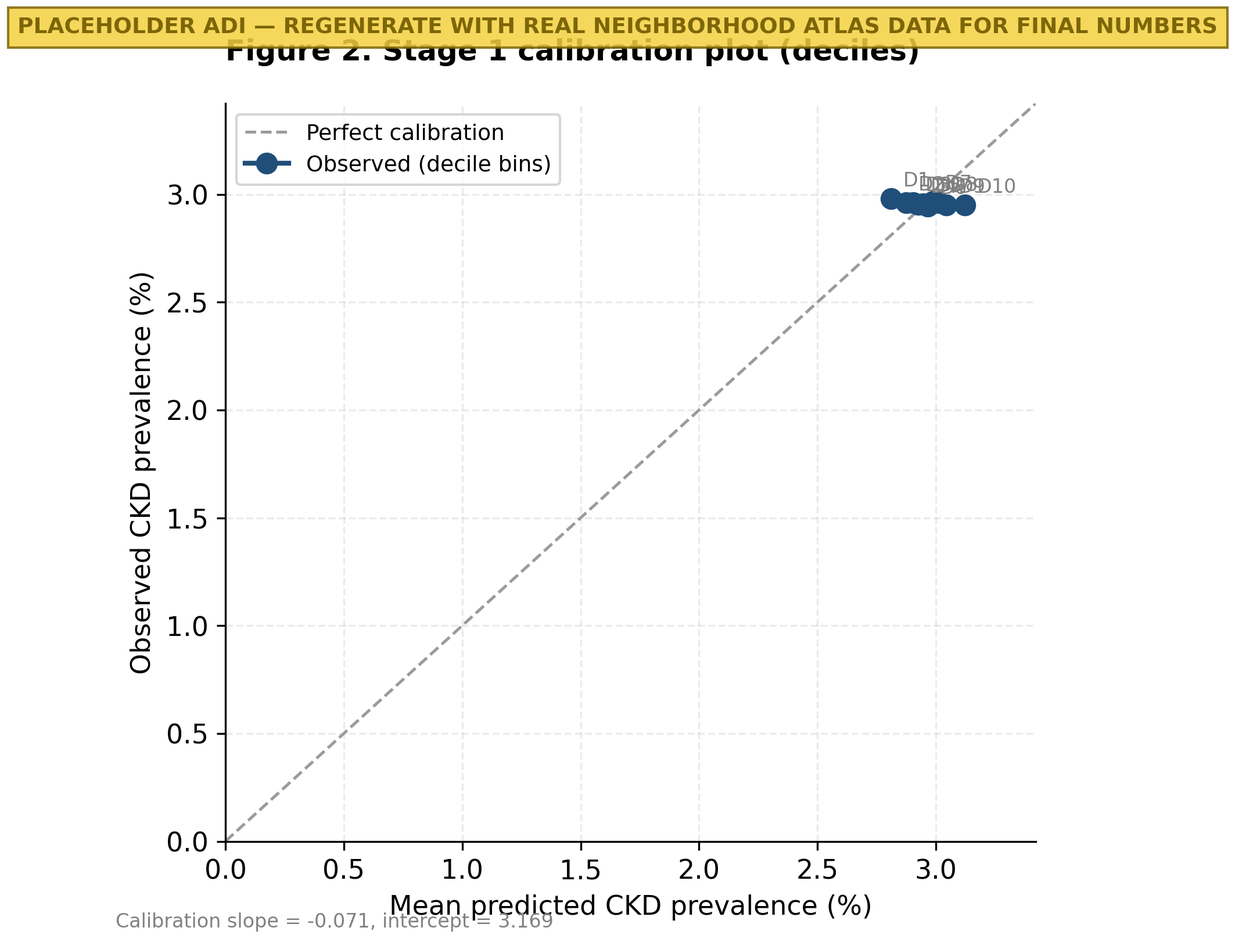
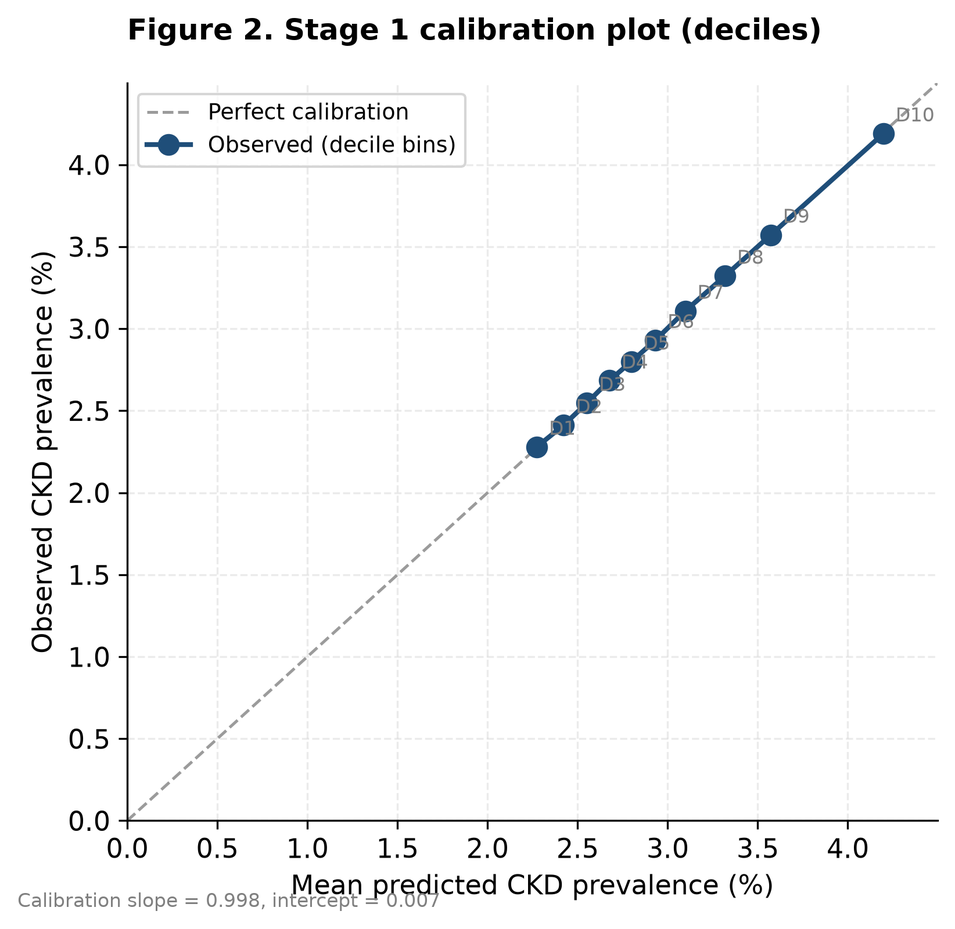
Rerun Stage 1 with real Neighborhood Atlas ADI; finalize v6 values
- train_ecological_model.py: omit tracts with all block groups
  ADI-suppressed from the quintile summary (they stay in the model)
- Regenerate Stage 1 outputs and Figures 1-7 from the real-ADI run
  (R2 0.445, n 60,945, Spearman 0.675), replacing placeholder renders;
  drop the temporary figures recovered from the v5 docx
- Manuscript and response documents: exact quintile values, Spearman,
  regional R2, linkage counts; resolve pending reviewer items

ADI source file stays gitignored per the Neighborhood Atlas DUA.

diff --git a/src/train_ecological_model.py b/src/train_ecological_model.py
@@ -265,6 +265,9 @@ def calibration_report(df):
 
 
 def predictions_by_quintile(df):
+    # Tracts whose block groups are all ADI-suppressed (GQ/PH/QDI) have no
+    # quintile; they stay in the model (XGBoost handles NaN) but not here.
+    df = df[df["adi_quintile"].notna()]
     return (df.groupby(df["adi_quintile"].round().astype(int))
               .agg(predicted=("oof_pred", "mean"),
                    observed=(TARGET, "mean"),

diff --git a/docs/CKD_Paper_JMIR_PHS_v6_revised.md b/docs/CKD_Paper_JMIR_PHS_v6_revised.md
@@ -16,7 +16,7 @@ Ajit Sahu^1^, Sanjoy Mukherjee^2^
 
 **Methods:** We conducted a cross-sectional secondary analysis of public data. Stage 1 related tract-mean ADI to CDC PLACES 2022 tract-level CKD prevalence in 60,945 US census tracts using gradient-boosted regression, evaluated with 5-fold and leave-one-Census-region-out cross-validation. Stage 2 used 15,150 adults from NHANES 2017–March 2020 and 2021–August 2023. The outcome was CKD defined by KDIGO 2024 criteria (race-free CKD-EPI 2021 eGFR <60 mL/min/1.73 m² or urine albumin-to-creatinine ratio ≥30 mg/g). Predictors required no laboratory testing: demographics, income-to-poverty ratio, body mass index, measured blood pressure, and self-reported conditions. We compared gradient boosting (XGBoost) with logistic regression, with survey-design–based 95% CIs.
 
-**Results:** Area deprivation explained 44.4% of between-tract variation in CKD prevalence (cross-validated R²=0.444, SD 0.009; mean absolute error 0.45 percentage points), and predictions were well calibrated (slope 0.997). Mean tract prevalence rose from 2.45% in the least-deprived ADI quintile to 3.90% in the most-deprived, a 1.6-fold gradient. Performance was lower when the Northeast (R²=0.232) or West (R²=0.247) was held out. In NHANES, survey-weighted CKD prevalence was 13.9%, ranging from 10.6% at an income-to-poverty ratio ≥3.5 to 16.3% below 1.3. The non-laboratory classifier achieved an area under the receiver operating characteristic curve (AUROC) of 0.772 (95% CI 0.758–0.787). This did not differ from logistic regression (0.778; difference −0.006, 95% CI −0.013 to 0.002). Predictions were overconfident at the high end (logistic calibration slope 0.75, 95% CI 0.70–0.80). At 90% specificity, sensitivity was 44.9% (95% CI 41.7%–48.2%) and positive predictive value 42.2%. AUROC was 0.70–0.81 across race/ethnicity groups and 0.74–0.78 across income groups, but 0.64 (95% CI 0.61–0.68) in adults younger than 50 years.
+**Results:** Area deprivation explained 44.5% of between-tract variation in CKD prevalence (cross-validated R²=0.445, SD 0.008; mean absolute error 0.45 percentage points), and predictions were well calibrated (slope 0.998). Mean tract prevalence rose from 2.45% in the least-deprived ADI quintile to 3.90% in the most-deprived, a 1.6-fold gradient. Performance was lower when the Northeast (R²=0.232) or West (R²=0.251) was held out. In NHANES, survey-weighted CKD prevalence was 13.9%, ranging from 10.6% at an income-to-poverty ratio ≥3.5 to 16.3% below 1.3. The non-laboratory classifier achieved an area under the receiver operating characteristic curve (AUROC) of 0.772 (95% CI 0.758–0.787). This did not differ from logistic regression (0.778; difference −0.006, 95% CI −0.013 to 0.002). Predictions were overconfident at the high end (logistic calibration slope 0.75, 95% CI 0.70–0.80). At 90% specificity, sensitivity was 44.9% (95% CI 41.7%–48.2%) and positive predictive value 42.2%. AUROC was 0.70–0.81 across race/ethnicity groups and 0.74–0.78 across income groups, but 0.64 (95% CI 0.61–0.68) in adults younger than 50 years.
 
 **Conclusions:** Area deprivation reproduces the CKD deprivation gradient reported in prior studies and offers an open way to keep prioritizing neighborhoods now that tract-level estimates are discontinued, provided it is recalibrated by region before deployment. Information collected without laboratory tests identifies adults with CKD with moderate accuracy; a simple logistic model performs as well as machine learning, but needs local recalibration and is least useful in younger adults. Both tools support targeting confirmatory testing; neither replaces laboratory diagnosis.
 
@@ -42,9 +42,9 @@ In Stage 2, individuals were the unit of analysis. We used the National Health a
 
 ## Stage 1: Area Deprivation and Tract-Level CKD Prevalence
 
-Block-group ADI ranks were averaged within each census tract to give three tract-level features: mean national rank, mean state rank, and mean ADI quintile, with the quintile derived from the national rank. Tracts were linked to PLACES by tract FIPS code. Of the 72,337 PLACES tracts, 60,945 (84.3%) linked to an ADI tract. Most unlinked tracts are likely attributable to the difference in boundary vintage between the two products: the ADI uses 2020 Census geography and the PLACES 2022 tract files use 2010 Census tracts.
+Block-group ADI ranks were averaged within each census tract to give three tract-level features: mean national rank, mean state rank, and mean ADI quintile, with the quintile derived from the national rank. Tracts were linked to PLACES by tract FIPS code. Block-group ADI values suppressed by the Neighborhood Atlas (group quarters, low population, or questionable data; 6,449 of 242,335 block groups) were treated as missing. Of the 72,337 PLACES tracts, 60,945 (84.3%) linked to an ADI tract, and 24,450 of the 85,395 ADI tracts (28.6%) had no PLACES match. In 499 linked tracts, every block group was suppressed; these tracts were retained in the model, which handles missing values natively, but have no ADI quintile and are omitted from quintile summaries. Most unlinked tracts are likely attributable to the difference in boundary vintage between the two products: the ADI uses 2020 Census geography and the PLACES 2022 tract files use 2010 Census tracts.
 
-We modelled tract CKD prevalence as a function of the three ADI features using gradient-boosted regression trees (XGBoost {{xgboost}}; 600 trees, maximum depth 5, learning rate 0.05, row and column subsampling 0.9). Hyperparameters were fixed in advance rather than tuned. To verify that results did not depend on this choice, we refit the model across 5 settings spanning 200–1000 trees and depths 3–7. We estimated performance with random 5-fold cross-validation and with leave-one-Census-region-out cross-validation. The latter trains on 3 of the 4 Census regions (Northeast, Midwest, South, West) and predicts the fourth, to test whether the deprivation–CKD relationship transfers between regions. We report R², mean absolute error (MAE), and calibration, summarized as the slope and intercept of observed on predicted prevalence across deciles of out-of-fold predictions. We also report mean predicted and observed prevalence by ADI quintile.
+We modelled tract CKD prevalence as a function of the three ADI features using gradient-boosted regression trees (XGBoost {{xgboost}}; 600 trees, maximum depth 5, learning rate 0.05, row and column subsampling 0.9). Hyperparameters were fixed in advance rather than tuned. To verify that results did not depend on this choice, we refit the model across 5 settings spanning 200–1000 trees and depths 3–7. We estimated performance with random 5-fold cross-validation and with leave-one-Census-region-out cross-validation. The latter trains on 3 of the 4 Census regions (Northeast, Midwest, South, West) and predicts the fourth, to test whether the deprivation–CKD relationship transfers between regions. We report R², mean absolute error (MAE), the Spearman rank correlation between predicted and observed prevalence, and calibration, summarized as the slope and intercept of observed on predicted prevalence across deciles of out-of-fold predictions. We also report mean predicted and observed prevalence by ADI quintile.
 
 ## Stage 2: Identifying Adults With CKD Without Laboratory Testing
 
@@ -74,37 +74,37 @@ This study was a secondary analysis of publicly available, deidentified data, an
 
 ## Stage 1: Area Deprivation Explains Much of the Neighborhood CKD Burden
 
-Across 60,945 linked census tracts, the three ADI features explained 44.4% of between-tract variation in CKD prevalence (cross-validated R²=0.444, SD 0.009 across folds). The mean absolute error was 0.45 percentage points (Figure 1; Figure 7). Out-of-fold predictions were well calibrated, with a decile calibration slope of 0.997 and intercept of +0.009 percentage points (Figure 2). Performance varied by less than 0.01 in R² (0.439 to 0.445) across the 5 model-capacity settings (Figure 4). This indicates that the result reflects the deprivation signal rather than a particular model configuration.
+Across 60,945 linked census tracts, the three ADI features explained 44.5% of between-tract variation in CKD prevalence (cross-validated R²=0.445, SD 0.008 across folds). The mean absolute error was 0.45 percentage points (Figure 1; Figure 7). Out-of-fold predictions were well calibrated, with a decile calibration slope of 0.998 and intercept of +0.007 percentage points (Figure 2). The Spearman rank correlation between predicted and observed tract prevalence was 0.67. This is consistent with R², which is on a squared scale (the square root of 0.445 is 0.67); rank correlation is the more directly relevant measure when the model is used to order tracts for prioritization. Performance varied by less than 0.01 in R² (0.440 to 0.445) across the 5 model-capacity settings (Figure 4). This indicates that the result reflects the deprivation signal rather than a particular model configuration.
 
-Observed PLACES prevalence rose monotonically with deprivation, from a tract mean of approximately 2.45% in the least-deprived ADI quintile through 2.60%, 2.83%, and 3.20% to 3.90% in the most-deprived quintile, a 1.6-fold difference. Mean predicted prevalence was virtually identical to observed prevalence in every quintile (Figure 5). The model therefore did not attenuate the deprivation gradient at the quintile level, even though, like any regression model, it compresses the extremes of individual tracts (predicted values span roughly 2%–5%, against observed values of 0.5%–14.4%; Figure 1). ADI quintile and national rank carried similar gain importance, and state rank contributed less (Figure 6).
+Observed PLACES prevalence rose monotonically with deprivation, from a tract mean of 2.45% in the least-deprived ADI quintile through 2.60%, 2.83%, and 3.20% to 3.90% in the most-deprived quintile, a 1.6-fold difference. Mean predicted prevalence was within 0.002 percentage points of observed prevalence in every quintile (Figure 5). The model therefore did not attenuate the deprivation gradient at the quintile level, even though, like any regression model, it compresses the extremes of individual tracts (predicted values span roughly 2%–5%, against observed values of 0.5%–14.4%; Figure 1). ADI national rank carried the largest gain importance, followed by quintile and state rank (Figure 6). Because the quintile is derived from the national rank, the division of importance between these two features is not meaningful; together they carry most of the signal.
 
-The relationship transferred unevenly between regions (Figure 3). A model trained on the other 3 regions explained 41.5% of variation in the South and 40.9% in the Midwest, but only 24.7% in the West and 23.2% in the Northeast. Calibration slopes in the held-out regions were 0.69 (Northeast), 0.81 (West), 0.91 (Midwest), and 1.14 (South). A slope below 1 means that the deprivation gradient in that region is flatter than the national model assumes. The model therefore overestimates prevalence in that region's most-deprived tracts and underestimates it in the least-deprived. A slope above 1, as in the South, means the gradient is steeper than the national model assumes.
+The relationship transferred unevenly between regions (Figure 3). A model trained on the other 3 regions explained 41.6% of variation in the South and 40.9% in the Midwest, but only 25.1% in the West and 23.2% in the Northeast. Calibration slopes in the held-out regions were 0.69 (Northeast), 0.81 (West), 0.90 (Midwest), and 1.14 (South). A slope below 1 means that the deprivation gradient in that region is flatter than the national model assumes. The model therefore overestimates prevalence in that region's most-deprived tracts and underestimates it in the least-deprived. A slope above 1, as in the South, means the gradient is steeper than the national model assumes.
 
-![](../figures_phs/stage1_real_adi/fig01_parity.png){width="6.0in"}
+![](../figures_phs/fig01_parity.png){width="6.0in"}
 
-*Figure 1. Out-of-fold predicted versus CDC PLACES–observed CKD prevalence for 60,945 census tracts. Each point is one tract; the dashed line indicates perfect agreement. Cross-validated R²=0.444.*
+*Figure 1. Out-of-fold predicted versus CDC PLACES–observed CKD prevalence for 60,945 census tracts. Each point is one tract; the dashed line indicates perfect agreement. Cross-validated R²=0.445.*
 
-![](../figures_phs/stage1_real_adi/fig02_stage1_calibration.png){width="6.0in"}
+![](../figures_phs/fig02_stage1_calibration.png){width="6.0in"}
 
-*Figure 2. Calibration of the Stage 1 model: mean out-of-fold predicted versus observed CKD prevalence by decile of predicted prevalence (slope 0.997, intercept +0.009 percentage points).*
+*Figure 2. Calibration of the Stage 1 model: mean out-of-fold predicted versus observed CKD prevalence by decile of predicted prevalence (slope 0.998, intercept +0.007 percentage points).*
 
-![](../figures_phs/stage1_real_adi/fig03_loro_panels.png){width="6.0in"}
+![](../figures_phs/fig03_loro_panels.png){width="6.0in"}
 
 *Figure 3. Leave-one-Census-region-out validation. Each panel shows R², MAE (percentage points), and calibration slope for the held-out region when the model is trained on the other 3 regions.*
 
-![](../figures_phs/stage1_real_adi/fig04_capacity_sweep.png){width="6.0in"}
+![](../figures_phs/fig04_capacity_sweep.png){width="6.0in"}
 
 *Figure 4. Cross-validated R² (mean and SD across 5 folds) across 5 XGBoost capacity settings.*
 
-![](../figures_phs/stage1_real_adi/fig05_adi_quintile.png){width="6.0in"}
+![](../figures_phs/fig05_adi_quintile.png){width="6.0in"}
 
 *Figure 5. Mean model-predicted and CDC PLACES–observed tract CKD prevalence by ADI quintile (1=least deprived, 5=most deprived).*
 
-![](../figures_phs/stage1_real_adi/fig06_feature_importance.png){width="6.0in"}
+![](../figures_phs/fig06_feature_importance.png){width="6.0in"}
 
 *Figure 6. XGBoost gain importance of the three tract-level ADI features.*
 
-![](../figures_phs/stage1_real_adi/fig07_performance_matrix.png){width="6.0in"}
+![](../figures_phs/fig07_performance_matrix.png){width="6.0in"}
 
 *Figure 7. Summary of Stage 1 performance: random 5-fold and leave-one-region-out cross-validation.*
 
@@ -196,7 +196,7 @@ Using only public data, we found that area-level social risk, measured by the AD
 
 ## Comparison With Prior Work
 
-Our findings are consistent with prior evidence, which supports their validity, but they answer a different question. The 1.6-fold deprivation gradient in tract CKD prevalence lies within the 1.5- to 2.0-fold socioeconomic gradients reported in earlier individual-level and meta-analytic studies {{vart2015}}{{crews2014}}{{nicholas2015}}, although at the lower end of that range. Model shrinkage does not explain the position, because predicted and observed quintile means coincide. More plausible contributors are the smoothing inherent in PLACES small-area estimation, which pulls tract estimates toward values expected from their demographic composition {{zhang2014}}; the averaging of individual risk within tracts that contain residents of differing socioeconomic position; and under-ascertainment of CKD in self-reported survey data, which may itself vary with deprivation. The individual-level income gradient in our NHANES sample (16.3% vs 10.6%) points the same way. What is new is not the existence of the gradient but its use for surveillance: we quantify how much of the national small-area CKD map can be recovered from a deprivation index that continues to be published, and how well that relationship transfers between regions. This matters now because CDC PLACES discontinued its tract-level CKD measure {{places_notes}}. Our Stage 1 model is an ecological, interpretable stand-in for prioritizing neighborhoods rather than a replacement for multilevel small-area estimation {{zhang2014}}{{wakefield2020}}. The 56% of variation it does not explain, and its weaker performance in the Northeast and West, show where deprivation is an insufficient guide and where local data are needed.
+Our findings are consistent with prior evidence, which supports their validity, but they answer a different question. The 1.6-fold deprivation gradient in tract CKD prevalence lies within the 1.5- to 2.0-fold socioeconomic gradients reported in earlier individual-level and meta-analytic studies {{vart2015}}{{crews2014}}{{nicholas2015}}, although at the lower end of that range. Model shrinkage does not explain the position, because predicted and observed quintile means coincide. More plausible contributors are the smoothing inherent in PLACES small-area estimation, which pulls tract estimates toward values expected from their demographic composition {{zhang2014}}; the averaging of individual risk within tracts that contain residents of differing socioeconomic position; and under-ascertainment of CKD in self-reported survey data, which may itself vary with deprivation. The individual-level income gradient in our NHANES sample (16.3% vs 10.6%) points the same way. What is new is not the existence of the gradient but its use for surveillance: we quantify how much of the national small-area CKD map can be recovered from a deprivation index that continues to be published, and how well that relationship transfers between regions. This matters now because CDC PLACES discontinued its tract-level CKD measure {{places_notes}}. Our Stage 1 model is an ecological, interpretable stand-in for prioritizing neighborhoods rather than a replacement for multilevel small-area estimation {{zhang2014}}{{wakefield2020}}. The 55% of variation it does not explain, and its weaker performance in the Northeast and West, show where deprivation is an insufficient guide and where local data are needed.
 
 For individual screening, the most comparable tools are questionnaire-based scores. SCORED reported an AUROC of 0.88 in its NHANES 1999–2002 development data and 0.71 on external validation {{bang2007}}. However, it targeted only reduced eGFR and used a race-based eGFR equation, and two of its inputs, proteinuria and anemia, require laboratory results. Our classifier predicts the broader KDIGO 2024 definition, which includes albuminuria with preserved eGFR and is harder to detect from risk factors alone. It uses the race-free 2021 equation, contemporary NHANES data, and no laboratory inputs, and its accuracy (0.77) falls between SCORED's development and validation estimates. That logistic regression matched XGBoost agrees with a systematic review that found no average benefit of machine learning over logistic regression for clinical prediction models {{christodoulou2019}}. In practice, this means a health department can deploy a published, auditable points-style score without losing accuracy. A further contribution beyond earlier scores is the reporting of calibration and performance across income and race/ethnicity groups, with survey-design–based uncertainty.
 
@@ -210,7 +210,7 @@ Equity requires care. The CKD outcome uses the race-free eGFR equation, consiste
 
 Several limitations should be considered when interpreting these results. The Stage 1 outcome is itself a model-based estimate: PLACES derives tract prevalence from self-reported BRFSS diagnoses using demographic and area covariates. Self-reported CKD greatly underestimates true prevalence, given that most people with CKD are unaware of it, and the PLACES estimation model may share socioeconomic inputs with the ADI. Stage 1 therefore shows how well deprivation recovers the federal small-area estimate, not true tract prevalence. Validation against laboratory-based data, such as health system or state registry records, is needed before relying on it for absolute burden.
 
-The analysis is also ecological. Tract-level associations cannot be applied to individuals, which is why individual triage is addressed separately in Stage 2. About 16% of PLACES tracts could not be linked to ADI tracts, most likely because of the change in Census tract boundaries between 2010 and 2020. Using the Census relationship file to reallocate these tracts {{census_crosswalk}} would test whether the excluded tracts differ systematically. We also evaluated only one deprivation index; others, such as the Social Vulnerability Index, may perform differently.
+The analysis is also ecological. Tract-level associations cannot be applied to individuals, which is why individual triage is addressed separately in Stage 2. About 16% of PLACES tracts and 29% of ADI tracts could not be linked, most likely because of the change in Census tract boundaries between 2010 and 2020. Using the Census relationship file to reallocate these tracts {{census_crosswalk}} would test whether the excluded tracts differ systematically. We also evaluated only one deprivation index; others, such as the Social Vulnerability Index, may perform differently.
 
 For Stage 2, NHANES is cross-sectional and measures creatinine and albuminuria once, so the outcome includes some transient abnormalities and does not capture progression. The model detects prevalent CKD and does not predict future kidney failure, which tools such as the Kidney Failure Risk Equation address after diagnosis {{tangri2011}}. The 2017–2020 data were collected before the COVID-19 pandemic interrupted fieldwork and are combined with 2021–2023 data using CDC-recommended weights. Temporal changes between these periods were not modelled. Performance was estimated by internal cross-validation in a nationally representative sample. External validation in the populations where a health department would use the tool, such as uninsured adults attending community screening events, has not been done. Four predictors are self-reported diagnoses (hypertension, diabetes, heart failure, and stroke) and are subject to recall and reporting bias. Being aware of a diagnosis also depends on prior contact with health care, so the score may be less accurate among people with poor access to care, the group screening most needs to reach. In our data, 9.3% (95% CI 8.4%–10.3%) of adults who reported no hypertension diagnosis had measured blood pressure of 140/90 mm Hg or higher. This proportion was similar across income groups (9.7%, 10.0%, and 8.8% for PIR <1.3, 1.3–3.49, and ≥3.5). Measured blood pressure is itself a predictor and partly offsets missed diagnoses. We could not assess unreported diabetes, heart failure, or stroke, or differences by insurance status, and in settings with worse access than the national average the comparability across groups that we observed may not hold. Finally, the Stage 1 analysis requires the registration-controlled Neighborhood Atlas file. Reproducing it therefore requires each user to obtain the file directly.
 

diff --git a/docs/JMIR_PHS_v6_Response_to_Reviewer_AS.md b/docs/JMIR_PHS_v6_Response_to_Reviewer_AS.md
@@ -65,9 +65,9 @@ The paragraph also notes that the convention somewhat overestimates persistent C
   - under-ascertainment of CKD in self-report, which may vary with deprivation.
 
 **Draft reply:**
-> We thank the reviewer for catching this. The quintile values in the previous text were incorrect and did not match Figure 5. The observed PLACES prevalence by ADI quintile is approximately 2.45%, 2.60%, 2.83%, 3.20%, and 3.90%, a 1.6-fold gradient, within the 1.5- to 2.0-fold range cited, and the model's predicted means are virtually identical. We now report observed and predicted values for every quintile in the Results. Because predicted and observed quintile means coincide, model shrinkage does not attenuate the gradient. In the Discussion we note that its position at the lower end of the published range more plausibly reflects smoothing in the PLACES small-area estimation, within-tract averaging, and under-ascertainment of CKD in self-report.
+> We thank the reviewer for catching this. The quintile values in the previous text were incorrect and did not match Figure 5. The observed PLACES prevalence by ADI quintile is 2.45%, 2.60%, 2.83%, 3.20%, and 3.90%, a 1.6-fold gradient, within the 1.5- to 2.0-fold range cited, and the model's predicted means are within 0.002 percentage points of observed in every quintile. We now report observed and predicted values for every quintile in the Results. Because predicted and observed quintile means coincide, model shrinkage does not attenuate the gradient. In the Discussion we note that its position at the lower end of the published range more plausibly reflects smoothing in the PLACES small-area estimation, within-tract averaging, and under-ascertainment of CKD in self-report.
 
-**Author check:** The quintile values were read from the bar heights in Figure 5, so the text says "approximately". After re-running Stage 1 with the real ADI file, take the exact values from `ckd_pipeline/outputs/stage1_predictions_by_quintile.csv`.
+**Resolved:** Exact values confirmed by the Stage 1 rerun with the real ADI file (`ckd_pipeline/outputs/stage1_predictions_by_quintile.csv`).
 
 ### Comment 4: Qualify "suitable for population-health deployment" in the Abstract and Conclusions with region-stratified recalibration
 
@@ -118,23 +118,17 @@ The new values appear in the Methods, in the Results, and in two new rows of Tab
 
 ### Comment 8: Why Spearman (0.71) exceeds R² (0.45)
 
-**Change:** The Spearman value in the previous version was not produced by the archived code and has been removed (see the opening paragraph). `src/train_ecological_model.py` now computes `spearman_rho_oof` on the out-of-fold predictions and writes it to `outputs/stage1_metrics.json`, so the value will be available when Stage 1 is re-run with the real ADI file.
+**Change:** The 0.71 in the previous version was not produced by the archived code. `src/train_ecological_model.py` now computes the Spearman correlation on out-of-fold predictions. Re-running Stage 1 with the real ADI file gives **ρ = 0.675**, which is now reported in the Results with an explanation. My earlier draft explanation, that the model compresses extreme tracts, was not the main reason and has been dropped. The main reason is scale: R² is a squared quantity, and √0.445 = 0.667 ≈ ρ.
 
-**Two options for the authors:**
-
-- **(a) Recommended, if you re-run Stage 1 before resubmission.** Add the value back to Results › Stage 1 with this explanation (fill in ρ):
-  > *The Spearman rank correlation between out-of-fold predicted and observed tract prevalence was ρ=[value]. Rank correlation exceeds R² because it measures only whether tracts are ordered correctly, whereas R² also penalizes the distance between predicted and observed values; the model compresses extreme tracts toward the mean (Figure 1), which lowers R² more than it lowers rank agreement. For prioritizing tracts, rank agreement is the more relevant measure.*
-- **(b) If you do not re-run.** Use the reply below.
-
-**Draft reply (option b):**
-> We thank the reviewer for this point. On re-auditing the code for this revision we found that the Spearman correlation reported previously was not produced by the released pipeline, so we have removed it. The Stage 1 script now computes rank correlation on out-of-fold predictions. Conceptually, rank correlation exceeds R² because it measures only whether tracts are correctly ordered, whereas R² also penalizes the distance between predicted and observed values, and the model compresses extreme tracts toward the mean.
+**Draft reply:**
+> We thank the reviewer for this question, and we must first correct the value. The Spearman correlation of 0.71 reported previously was not produced by the released code. Re-running Stage 1 from the released code, the Spearman correlation between out-of-fold predicted and observed tract prevalence is 0.67, and we now report this value in the Results. The two statistics are not contradictory. R² is on a squared scale, and the square root of the cross-validated R² (0.445) is 0.67, close to the rank correlation. Rank correlation is the more directly relevant measure when the model is used to order tracts for prioritization, and we now say so in the Results.
 
 ### Comment 9: Leave-one-region-out values and the Figure 3 caption
 
-**Change:** The previous text and caption were inconsistent with each other and with the figure. Figure 3 and Figure 7 show the Northeast as the minimum (0.232), not the West (0.247). The v6 Results now state all four values, Northeast 0.232, Midwest 0.409, South 0.415, and West 0.247, with the four calibration slopes (0.69, 0.91, 1.14, 0.81). The Figure 3 caption no longer repeats rounded values. Figure 7 lists all four regional R² values.
+**Change:** The previous text and caption were inconsistent with each other and with the figure. The Stage 1 rerun and the regenerated Figures 3 and 7 show the Northeast as the minimum (0.232), not the West (0.251). The v6 Results now state all four values, Northeast 0.232, Midwest 0.409, South 0.416, and West 0.251, with the four calibration slopes (0.69, 0.90, 1.14, 0.81). The Figure 3 caption no longer repeats rounded values. Figure 7 lists all four regional R² values.
 
 **Draft reply:**
-> Thank you. The previous text misidentified the lowest region. Figures 3 and 7 show R²=0.232 for the Northeast and 0.247 for the West. The Results now state all four regional R² values (Northeast 0.232, Midwest 0.409, South 0.415, West 0.247) and calibration slopes, and Figure 7 tabulates them.
+> Thank you. The previous text misidentified the lowest region. Re-running Stage 1 from the released code gives R²=0.232 for the Northeast and 0.251 for the West. The Results now state all four regional R² values (Northeast 0.232, Midwest 0.409, South 0.416, West 0.251) and calibration slopes, and Figure 7, regenerated from the same run, tabulates them.
 
 ### Comment 10 (note): Registration-gated ADI file
 
@@ -151,6 +145,6 @@ The new values appear in the Methods, in the Results, and in two new rows of Tab
 |---|---|
 | `ckd_pipeline/outputs/stage2_demographic_baselines.json` | Comment 7: nested LR baselines with design-based CIs |
 | `ckd_pipeline/outputs/stage2_unreported_hypertension.json` | Comment 5: measured hypertension among adults reporting no diagnosis, by PIR |
-| `stage1_metrics.json → spearman_rho_oof` | Comment 8: produced on the next Stage 1 run with the real ADI file |
+| `stage1_metrics.json → spearman_rho_oof` | Comment 8: ρ = 0.675 from the real-ADI rerun |
 
 New references added to the manuscript: Murphy et al 2016 (PMID 27479614) and Coresh et al 2007 (PMID 17986697), both verified in PubMed.

diff --git a/docs/JMIR_PHS_v6_Editorial_Response.md b/docs/JMIR_PHS_v6_Editorial_Response.md
@@ -175,18 +175,22 @@ The model is **overconfident at high risk**: the top decile predicts 0.56 agains
 
 ### B3. Stage 1 text contradicted Stage 1 figures
 
-The Stage 1 figures embedded in v5 (whose internal table says `ADI source: real_neighborhood_atlas`) are taken as the authoritative record of the real-ADI run. The v5 text disagreed with them:
+The Stage 1 figures embedded in v5 (whose internal table says `ADI source: real_neighborhood_atlas`) were initially taken as the record of the real-ADI run. The v5 text disagreed with them.
 
-| Item | v5 text | v5 figures (now used in v6) |
-|---|---|---|
-| Tracts | 60,445 | **60,945** |
-| Cross-validated R² | 0.450 ± 0.006 | **0.444 ± 0.009** |
-| MAE | 0.447 | **0.452** |
-| Calibration slope / intercept | 0.97 / 0.04 | **0.997 / 0.009** |
-| Leave-one-region-out R² range | 0.239 (West) to 0.415 | **0.232 (Northeast)** to 0.415; West 0.247 |
-| Capacity sweep | R² varies <0.005 | 0.439–0.445 (**range 0.006**) |
-| ADI quintile gradient | ~2.6% → ~3.4% | **2.45% → 3.90%** |
-| RMSE 0.628 | stated | not in any figure or output; removed |
+**Update: Stage 1 has now been re-run** from the committed code with the Neighborhood Atlas v4.0.1 block-group file. The rerun reproduces the v5 figures to within rounding, and the manuscript, Figures 1–7, and both response documents now use the rerun values. The final column below gives the rerun values.
+
+| Item | v5 text | v5 figures | v6 (rerun, final) |
+|---|---|---|---|
+| Tracts | 60,445 | 60,945 | **60,945** |
+| Cross-validated R² | 0.450 ± 0.006 | 0.444 ± 0.009 | **0.445 ± 0.008** |
+| MAE | 0.447 | 0.452 | **0.452** |
+| Calibration slope / intercept | 0.97 / 0.04 | 0.997 / 0.009 | **0.998 / 0.007** |
+| Leave-one-region-out R² | 0.239 (West) to 0.415 | 0.232 (Northeast) to 0.415; West 0.247 | **0.232 (Northeast) to 0.416; West 0.251** |
+| Capacity sweep | R² varies <0.005 | 0.439–0.445 | **0.440–0.445** |
+| ADI quintile gradient | ~2.6% → ~3.4% | ~2.45% → ~3.90% | **2.45, 2.60, 2.83, 3.20, 3.90% (1.6×)** |
+| Spearman ρ | 0.71 | not shown | **0.675** |
+| Feature importance | quintile ≈ national rank | quintile 17.6, natrank 17.4 | **natrank 21.4, quintile 10.9** (quintile is derived from national rank, so the split is arbitrary) |
+| RMSE 0.628 | stated | not shown | 0.63 (not reported in v6) |
 
 ### B4. Stage 1 analyses claimed in v5 that do not exist (removed from v6)
 
@@ -194,8 +198,8 @@ None of the following has code in the repository, so all were removed:
 
 - The crosswalk boundary-misalignment analysis (~12,400 tracts recovered, ΔR² <0.01, KS P=.18): Supplementary Table S1.
 - The three feature ablations (R² 0.468 / 0.472 / 0.488): Supplementary Table S2.
-- Spearman ρ = 0.71.
-- "28% of ADI tracts failed the join". The 16% figure for PLACES was verified: 72,337 − 60,945 = 11,392 = 15.7%.
+- Spearman ρ = 0.71. Now computed by code: ρ = 0.675 (reported in v6).
+- "28% of ADI tracts failed the join". **Verified by the rerun** (24,450 of 85,395 = 28.6%) and restored in v6, together with the 16% figure for PLACES (72,337 − 60,945 = 11,392 = 15.7%).
 - "Population-weighted mean" aggregation: the code uses an **unweighted** mean, and v6 describes it accurately.
 
 If you want any of these analyses back, they must be implemented and run first. The crosswalk analysis is mentioned in v6 only as a suggested next step in the Limitations.
@@ -229,7 +233,7 @@ Re-running the unchanged training script with the versions stated in the paper (
 
 ## Part C. Remaining author actions before resubmission
 
-1. **Re-run Stage 1 with the real ADI file (high priority).** v6 reports Stage 1 values from the v5 figures, but the repository cannot currently regenerate them. Download the Neighborhood Atlas 2020 national block-group CSV to `ckd_pipeline/data/raw/adi_2020_national_blockgroup.csv`, then run `python src/fetch_places.py`, `python src/train_ecological_model.py`, and `python src/generate_ecological_figures.py`. Confirm that `outputs/stage1_metrics.json` shows `adi_source: real_neighborhood_atlas` and that the numbers match the manuscript (R² 0.444, n 60,945, and so on). The loader was fixed to handle the real file format (see Part D). If the numbers differ, update the manuscript and copy the new figures into `figures_phs/stage1_real_adi/`.
+1. ~~Re-run Stage 1 with the real ADI file.~~ **Done.** It was re-run with Neighborhood Atlas v4.0.1 (`data/raw/adi_2020_national_blockgroup.csv`, copied to `ckd_pipeline/data/raw/`; both locations are gitignored, as the data use agreement requires). Figures 1–7 were regenerated, and the manuscript was updated with the rerun values.
 2. **Confirm** SM's affiliation, COI, and CRediT roles (A11, A12), and any institutional policy citation for the ethics exemption (A4).
 3. **Transfer preferences** (A15).
 4. **Correct the earlier "no generative AI" attestation** in the response letter (A14).
@@ -250,7 +254,7 @@ Re-running the unchanged training script with the versions stated in the paper (
 | `src/generate_stage2_figures.py` | Uses design-based CIs (Figures 8, 10, 11, 13; Table 2); Figure 11 adds PIR groups and uses the shared design-based CIs (previously 500 iid resamples, while v5 claimed 1,000); fixed "95% per-fold range" mislabel; fixed "Unnamed: 0" table headers; removed the now-unused `subset_by_label` |
 | `src/train_ecological_model.py` | Real-ADI loader now coerces Neighborhood Atlas suppression codes (GQ, PH, …) to missing and derives the quintile from the national rank when the file has no quintile column; previously it would fail on the public file |
 | `src/build_v6_docx.py` (new) | Builds the clean and highlighted .docx from the Markdown source, numbering citations by first appearance |
-| `figures_phs/stage1_real_adi/` (new) | Real-ADI Stage 1 figures recovered from the v5 .docx; the `figures_phs/fig01–07` files in the repo are placeholder-ADI renders and must not be used |
+| `figures_phs/fig01–07`, `ckd_pipeline/outputs/stage1_*` | Regenerated from the real-ADI rerun (previously placeholder renders). The temporary `stage1_real_adi/` copies taken from the v5 .docx were removed |
 
 **Reproducing Stage 2 (verified):**
 

diff --git a/docs/JMIR_PHS_v6_Response_Letter.md b/docs/JMIR_PHS_v6_Response_Letter.md
@@ -12,7 +12,7 @@ Thank you for the opportunity to revise our manuscript, and thank you and Review
 
 - **Model comparison.** The previously reported advantage of XGBoost over logistic regression was not supported. On identical cross-validation folds the two models do not differ (AUROC 0.772 vs 0.778; difference −0.006, 95% CI −0.013 to 0.002).
 - **Calibration.** A binning error in our calibration routine overstated calibration. The corrected logistic calibration slope is 0.75 (95% CI 0.70–0.80), which we now report, interpret, and discuss.
-- **Stage 1 values.** Several Stage 1 values in the text did not match the figures generated from the Area Deprivation Index data, and they have been aligned with them.
+- **Stage 1 values.** Several Stage 1 values in the text did not match the figures generated from the Area Deprivation Index data. We re-ran Stage 1 from the released code with the Neighborhood Atlas file, regenerated Figures 1–7, and report the resulting values throughout.
 - **Withdrawn analyses.** Supplementary analyses we described but had not completed (the Census-crosswalk sensitivity analysis, the feature ablations, and a Spearman correlation), references to a prospective evaluation protocol and an archived data snapshot, and the statement that race/ethnicity was not a model predictor (it is) have been removed or corrected.
 - **Confidence intervals.** All confidence intervals are now design-based. They are estimated with a Rao–Wu bootstrap that resamples NHANES primary sampling units within strata.
 
@@ -120,7 +120,7 @@ We have added an Ethical Considerations subsection. It reports the NCHS Research
 We agree and have made this explicit in the Methods. The single-measurement eGFR/UACR definition is the convention used for national CKD prevalence estimates from NHANES, including by the CDC CKD Surveillance System (Murphy et al, Ann Intern Med 2016; Coresh et al, JAMA 2007; CDC 2023). We cite these papers and note that the convention somewhat overestimates persistent CKD, because albuminuria measured once can be transient.
 
 **AS3. ADI quintile gradient.**
-We thank the reviewer for catching this. The quintile values in the previous text were incorrect and did not match Figure 5. Observed CDC PLACES prevalence by ADI quintile is [PENDING: exact Q1–Q5 values from the Stage 1 rerun], a [PENDING]-fold gradient, within the 1.5- to 2.0-fold range cited. The model's predicted means are virtually identical to the observed means.
+We thank the reviewer for catching this. The quintile values in the previous text were incorrect and did not match Figure 5. Observed CDC PLACES prevalence by ADI quintile is 2.45%, 2.60%, 2.83%, 3.20%, and 3.90%, a 1.6-fold gradient, within the 1.5- to 2.0-fold range cited. The model's predicted means are within 0.002 percentage points of the observed means in every quintile.
 
 We now report observed and predicted values for every quintile in the Results. Because predicted and observed quintile means coincide, model shrinkage does not attenuate the gradient. In the Discussion we note that the gradient's position at the lower end of the published range more plausibly reflects smoothing in the PLACES small-area estimation, averaging of individual risk within tracts, and under-ascertainment of CKD in self-report.
 
@@ -137,10 +137,10 @@ The statement reflected an informal impression rather than a systematic search, 
 Thank you for this helpful suggestion, which we have adopted. Logistic regression with age and sex alone achieves an AUROC of 0.728 (95% CI 0.717–0.741). Adding race/ethnicity, income-to-poverty ratio, and BMI gives 0.748 (0.736–0.762), and the full model gives 0.778 (0.764–0.793). Blood pressure and the self-reported conditions therefore add 0.030 (95% CI 0.024–0.036) beyond demographics and BMI. We report this in the Results and in Table 2, and note that much of the discrimination comes from age.
 
 **AS8. Spearman correlation versus R².**
-[PENDING: replace with the option (a) or (b) text after the Stage 1 rerun.] If the rerun completes, report "ρ=[value]" with the explanation in `JMIR_PHS_v6_Response_to_Reviewer_AS.md`, comment 8, option (a).
+We thank the reviewer for this question, and we must first correct the value. The Spearman correlation of 0.71 reported previously was not produced by the released code. Re-running Stage 1 from the released code, the Spearman correlation between out-of-fold predicted and observed tract prevalence is 0.67, and we now report this value in the Results. The two statistics are not contradictory. R² is on a squared scale, and the square root of the cross-validated R² (0.445) is 0.67, close to the rank correlation. Rank correlation is the more directly relevant measure when the model is used to order tracts for prioritization, and we now say so in the Results.
 
 **AS9. Regional R² values.**
-Thank you. The previous text misidentified the lowest region. Figures 3 and 7 show R²=0.232 for the Northeast and 0.247 for the West. The Results now state all four regional R² values (Northeast 0.232, Midwest 0.409, South 0.415, West 0.247) and the corresponding calibration slopes, and Figure 7 tabulates them.
+Thank you. The previous text misidentified the lowest region. Re-running Stage 1 from the released code gives R²=0.232 for the Northeast and 0.251 for the West. The Results now state all four regional R² values (Northeast 0.232, Midwest 0.409, South 0.416, West 0.251) and the corresponding calibration slopes, and Figure 7, regenerated from the same run, tabulates them.
 
 **AS10. ADI data access.**
 We appreciate this note. The Data Availability section now explains how to obtain the ADI file. We have also made the pipeline's handling of the public Neighborhood Atlas file format more robust, so that independent replication is straightforward once the file has been downloaded.
